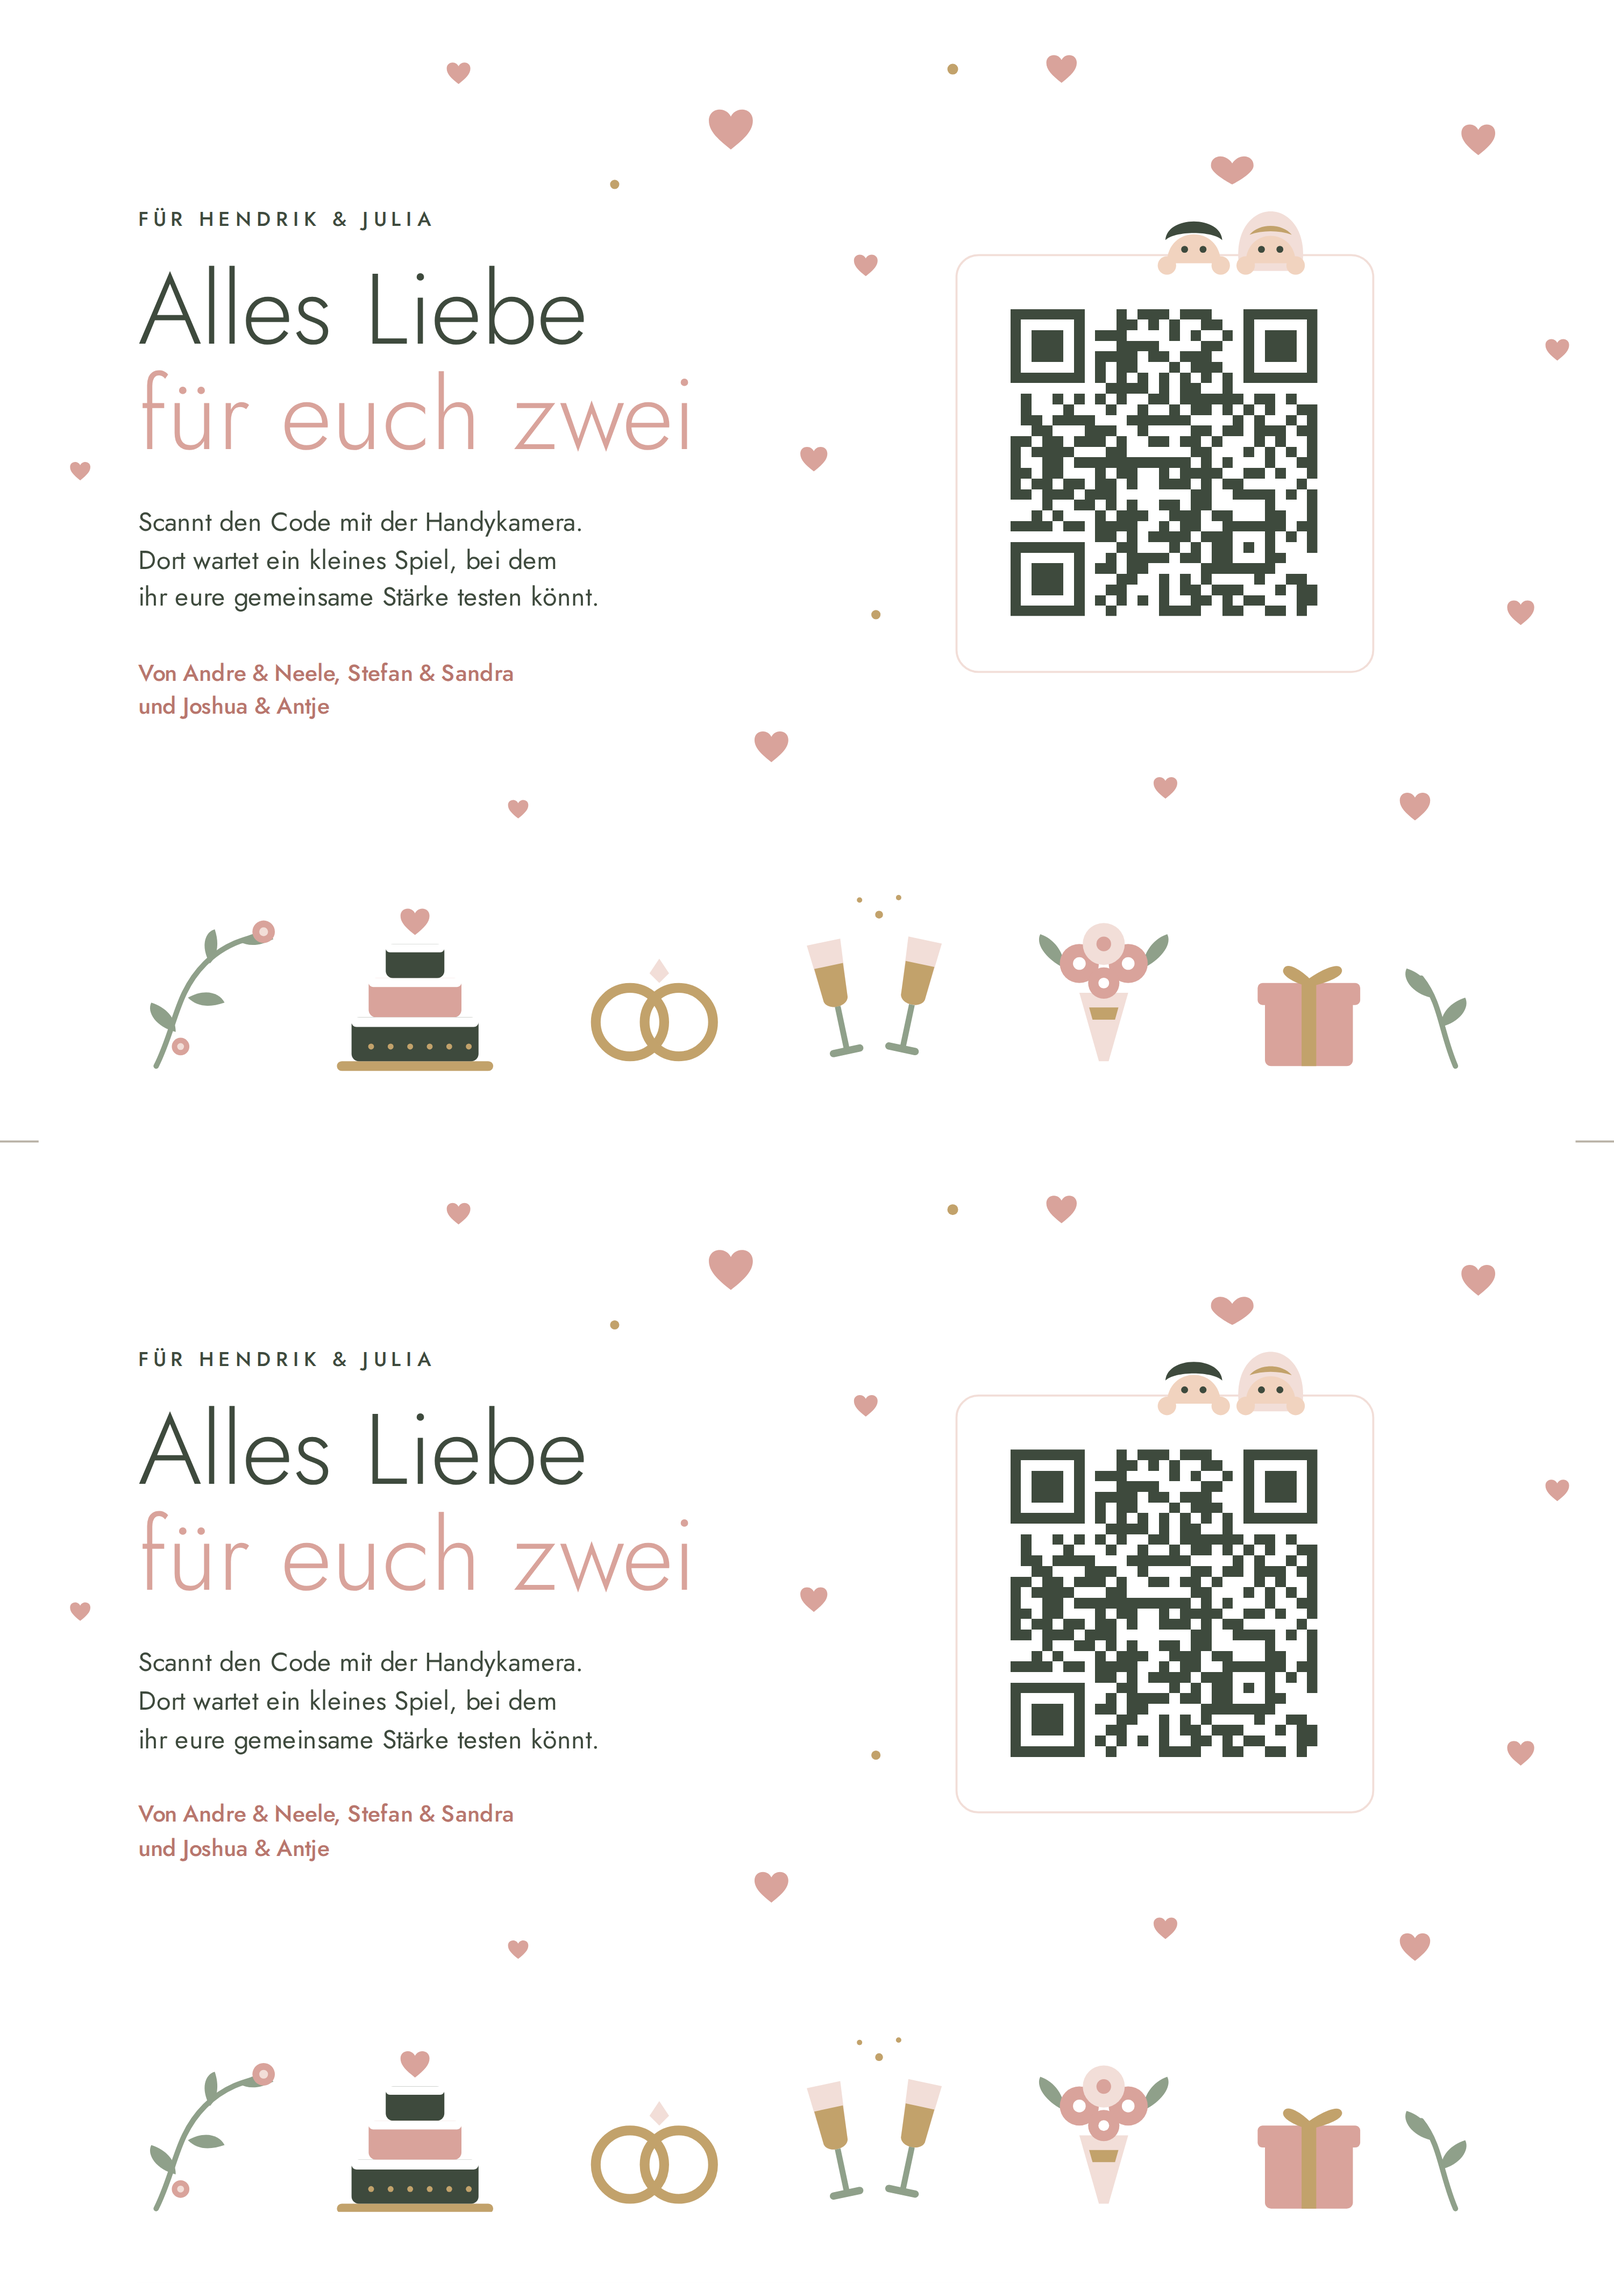
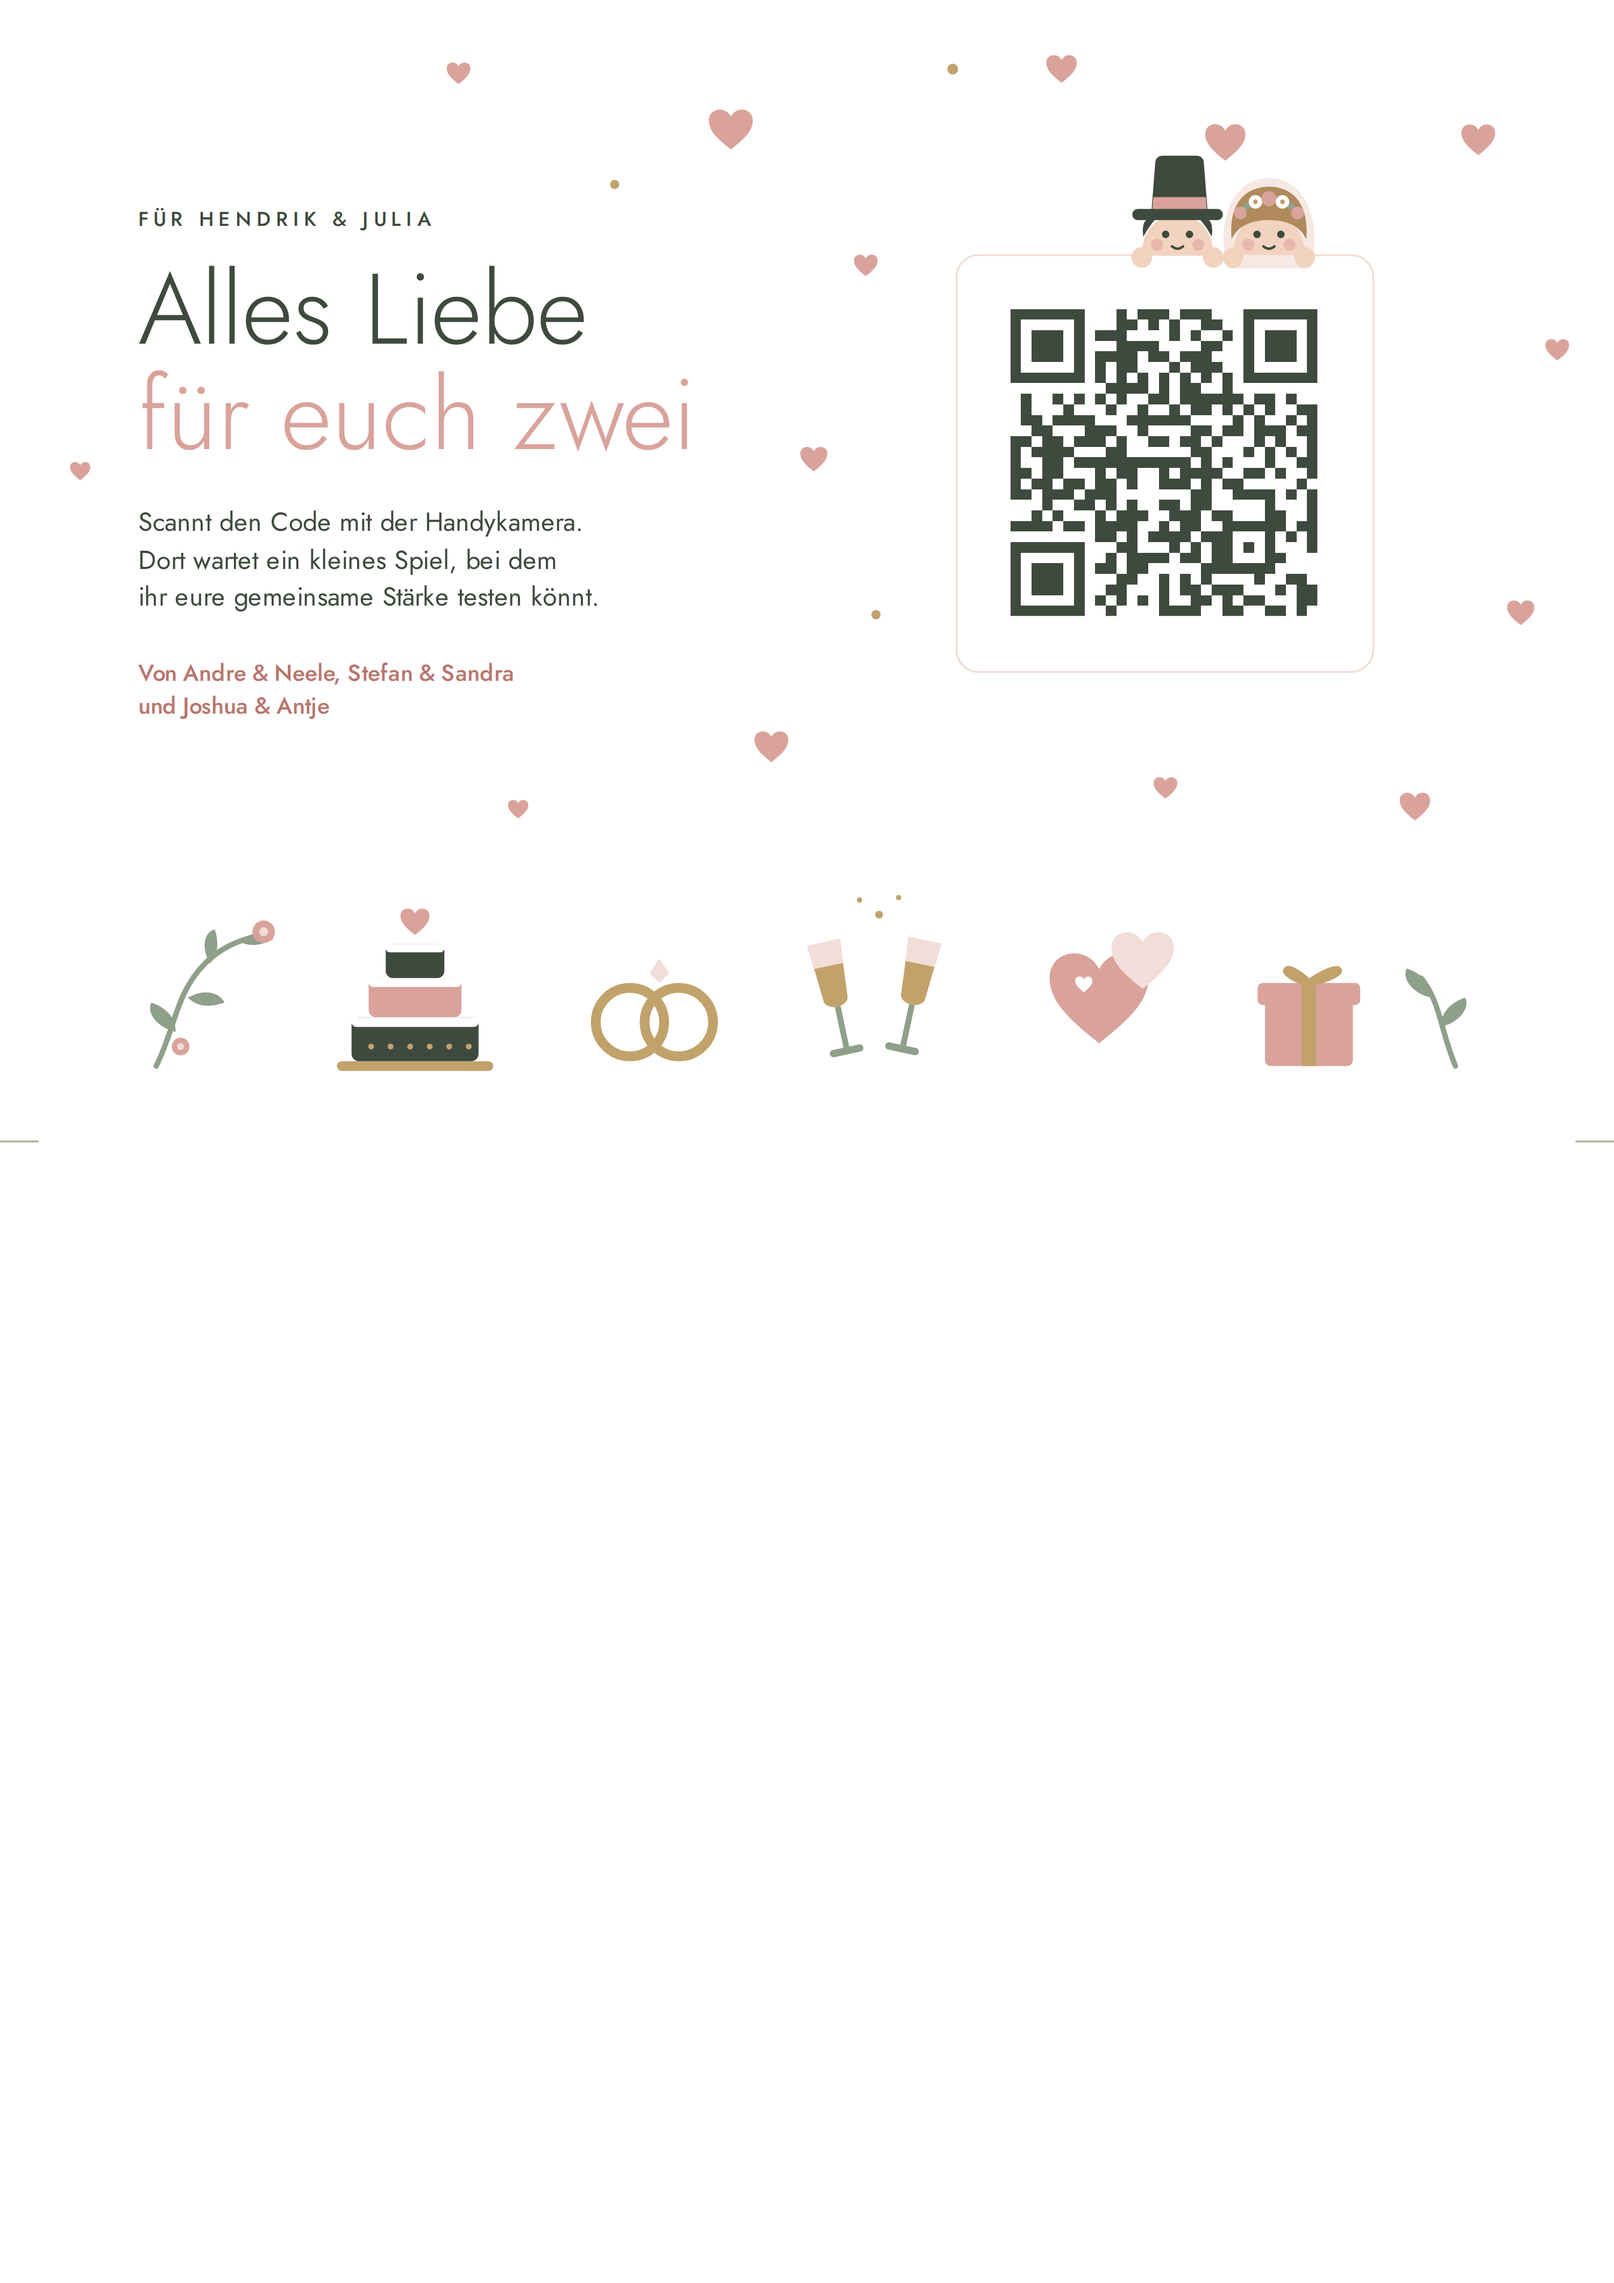
karten hochzeit optimiert

diff --git a/design/hochzeit/karten-vorlage.html b/design/hochzeit/karten-vorlage.html
@@ -2,7 +2,7 @@
 <html lang="de">
 <head>
   <meta charset="utf-8">
-  <title>Hochzeit – Karten (A4, 2 × A5 quer)</title>
+  <title>Hochzeit – Karte (A5 quer, oben auf A4)</title>
   <style>
     @font-face {
       font-family: "Jost";
@@ -95,10 +95,10 @@
 
     .paar {
       position: absolute;
-      right: 5mm;
-      top: -15.1mm;
-      width: 26mm;
-      height: 17.7mm;
+      right: 4mm;
+      top: -17.6mm;
+      width: 30mm;
+      height: 19.35mm;
     }
 
     .qr { width: 40mm; height: 40mm; }
@@ -158,26 +158,40 @@
       <div class="qr-feld">
         <div class="qr-schild">
           <!-- Brautpaar guckt hinter dem Schild hervor -->
-          <svg class="paar" viewBox="0 0 52 35.4" aria-hidden="true">
-            <path fill="#d9a39b" d="M26 6 C24 3 20 4 20.5 7 C21 9 26 11.5 26 11.5 C26 11.5 31 9 31.5 7 C32 4 28 3 26 6 Z"/>
-            <!-- Bräutigam -->
-            <path fill="#f1d3bf" d="M9 32 C9 22 23 22 23 32 Z"/>
-            <path fill="#3e4a3d" d="M8.6 26 C9 19.5 23 19.5 23.4 26 C21 23.5 11 23.5 8.6 26 Z"/>
-            <circle cx="13.6" cy="28.4" r="0.9" fill="#3e4a3d"/><circle cx="18.4" cy="28.4" r="0.9" fill="#3e4a3d"/>
-            <!-- Braut mit Schleier -->
-            <path fill="#f2ded8" d="M28 34 C26 24 31 18.5 36 18.5 C41 18.5 46 24 44 34 Z"/>
-            <path fill="#f1d3bf" d="M29.5 32 C29.5 22.5 42.5 22.5 42.5 32 Z"/>
-            <path fill="#c2a26b" d="M30.5 24.6 C33 21.5 39 21.5 41.5 24.6 C38 23.4 34 23.4 30.5 24.6 Z"/>
-            <circle cx="33.6" cy="28.4" r="0.9" fill="#3e4a3d"/><circle cx="38.4" cy="28.4" r="0.9" fill="#3e4a3d"/>
+          <svg class="paar" viewBox="0 0 58 37.4" aria-hidden="true">
+            <!-- Herz über den beiden -->
+            <path fill="#d9a39b" transform="translate(23.5 0.6) scale(0.23)" d="M24 42 C10 31 2 23 2 13 C2 6 7 2 13 2 C18 2 22 5 24 9 C26 5 30 2 35 2 C41 2 46 6 46 13 C46 23 38 31 24 42 Z"/>
+            <!-- Bräutigam mit Zylinder, rosige Wangen, Lächeln -->
+            <path fill="#f1d3bf" d="M8 34 C8 20.5 26 20.5 26 34 Z"/>
+            <!-- Koteletten unter dem Hut -->
+            <path fill="#3e4a3d" d="M8.4 29.4 C8 26.6 8.6 25 9.8 25 L11.4 25 C10.2 26.4 9.2 27.8 8.4 29.4 Z M25.6 29.4 C26 26.6 25.4 25 24.2 25 L22.6 25 C23.8 26.4 24.8 27.8 25.6 29.4 Z"/>
+            <!-- Zylinder mit Hutband -->
+            <path fill="#3e4a3d" d="M10.4 23.4 L11.4 10.6 C11.5 9.6 12.3 9 13.3 9 L21.7 9 C22.7 9 23.5 9.6 23.6 10.6 L24.6 23.4 Z"/>
+            <path fill="#d9a39b" d="M10.9 19.4 L24.1 19.4 L24.35 22.6 L10.65 22.6 Z"/>
+            <rect x="5.6" y="22.4" width="22.8" height="2.8" rx="1.4" fill="#3e4a3d"/>
+            <circle cx="14" cy="28.8" r="0.95" fill="#3e4a3d"/><circle cx="20" cy="28.8" r="0.95" fill="#3e4a3d"/>
+            <circle cx="11.8" cy="31.4" r="1.5" fill="#e8b7ad"/><circle cx="22.2" cy="31.4" r="1.5" fill="#e8b7ad"/>
+            <path fill="none" stroke="#3e4a3d" stroke-width="0.6" stroke-linecap="round" d="M15.6 31.8 Q17 33 18.4 31.8"/>
+            <!-- Braut: fließender Schleier, Haar, Blütenkranz -->
+            <path fill="#f6e8e3" d="M29.6 37.4 C26.4 26 30.6 14.6 40 14.6 C49.4 14.6 53.6 26 50.4 37.4 Z"/>
+            <path fill="#f1d3bf" d="M31 34 C31 20.5 49 20.5 49 34 Z"/>
+            <path fill="#b08a5c" d="M30.6 30 C29.8 20.4 34.6 16.8 40 16.8 C45.4 16.8 50.2 20.4 49.4 30 C47.8 26.6 44.4 25.2 40 25.2 C35.6 25.2 32.2 26.6 30.6 30 Z"/>
+            <g fill="#8fa08a"><ellipse cx="34.6" cy="21.6" rx="1.5" ry="0.8" transform="rotate(-30 34.6 21.6)"/><ellipse cx="45.4" cy="21.6" rx="1.5" ry="0.8" transform="rotate(30 45.4 21.6)"/></g>
+            <circle cx="32.8" cy="23.4" r="1.6" fill="#d9a39b"/><circle cx="36.6" cy="20.6" r="1.7" fill="#ffffff"/>
+            <circle cx="40" cy="19.8" r="1.9" fill="#d9a39b"/><circle cx="43.4" cy="20.6" r="1.7" fill="#ffffff"/>
+            <circle cx="47.2" cy="23.4" r="1.6" fill="#d9a39b"/>
+            <g fill="#c2a26b"><circle cx="36.6" cy="20.6" r="0.6"/><circle cx="43.4" cy="20.6" r="0.6"/></g>
+            <circle cx="37" cy="28.8" r="0.95" fill="#3e4a3d"/><circle cx="43" cy="28.8" r="0.95" fill="#3e4a3d"/>
+            <circle cx="34.8" cy="31.4" r="1.5" fill="#e8b7ad"/><circle cx="45.2" cy="31.4" r="1.5" fill="#e8b7ad"/>
+            <path fill="none" stroke="#3e4a3d" stroke-width="0.6" stroke-linecap="round" d="M38.6 31.8 Q40 33 41.4 31.8"/>
             <!-- Hände an der Kante -->
-            <circle cx="9" cy="32.6" r="2.4" fill="#f1d3bf"/><circle cx="23" cy="32.6" r="2.4" fill="#f1d3bf"/>
-            <circle cx="29.5" cy="32.6" r="2.4" fill="#f1d3bf"/><circle cx="42.5" cy="32.6" r="2.4" fill="#f1d3bf"/>
+            <g fill="#f1d3bf"><circle cx="8" cy="34.6" r="2.6"/><circle cx="26" cy="34.6" r="2.6"/><circle cx="31" cy="34.6" r="2.6"/><circle cx="49" cy="34.6" r="2.6"/></g>
           </svg>
           <div class="qr"><!--QR--></div>
         </div>
       </div>
 
-      <!-- Hochzeitsmotive: Blumenranke, Torte, Ringe, Sekt, Brautstrauß, Geschenk -->
+      <!-- Hochzeitsmotive: Blumenranke, Torte, Ringe, Sekt, Herzen, Geschenk -->
       <svg class="motive" viewBox="0 0 560 76" preserveAspectRatio="xMidYMax meet" aria-hidden="true">
         <!-- Blumenranke links -->
         <path fill="none" stroke="#8fa08a" stroke-width="2.2" stroke-linecap="round" d="M14 74 C22 58 22 44 34 32 C42 24 50 22 58 20"/>
@@ -218,15 +232,10 @@
         </g>
         <g fill="#c2a26b"><circle cx="310" cy="12" r="1.6"/><circle cx="302" cy="6" r="1.1"/><circle cx="318" cy="5" r="1.1"/></g>
 
-        <!-- Brautstrauß -->
-        <path fill="#8fa08a" d="M386 34 C378 30 374 24 376 20 C382 22 386 28 386 34 Z M418 34 C426 30 430 24 428 20 C422 22 418 28 418 34 Z"/>
-        <path fill="#f2ded8" d="M392 44 L412 44 L404 72 L400 72 Z"/>
-        <path fill="#c2a26b" d="M396 50 L408 50 L406.6 55 L397.4 55 Z"/>
-        <g fill="#d9a39b"><circle cx="392" cy="32" r="8"/><circle cx="412" cy="32" r="8"/></g>
-        <circle cx="402" cy="24" r="8.6" fill="#f2ded8"/>
-        <g fill="#ffffff"><circle cx="392" cy="32" r="2.6"/><circle cx="412" cy="32" r="2.6"/></g>
-        <circle cx="402" cy="24" r="3" fill="#d9a39b"/>
-        <circle cx="402" cy="40" r="6.4" fill="#d9a39b"/><circle cx="402" cy="40" r="2.2" fill="#ffffff"/>
+        <!-- zwei Herzen -->
+        <path fill="#d9a39b" transform="translate(378 26) scale(0.92)" d="M24 42 C10 31 2 23 2 13 C2 6 7 2 13 2 C18 2 22 5 24 9 C26 5 30 2 35 2 C41 2 46 6 46 13 C46 23 38 31 24 42 Z"/>
+        <path fill="#f2ded8" transform="translate(404 18) scale(0.58)" d="M24 42 C10 31 2 23 2 13 C2 6 7 2 13 2 C18 2 22 5 24 9 C26 5 30 2 35 2 C41 2 46 6 46 13 C46 23 38 31 24 42 Z"/>
+        <path fill="#ffffff" transform="translate(390 37) scale(0.16)" d="M24 42 C10 31 2 23 2 13 C2 6 7 2 13 2 C18 2 22 5 24 9 C26 5 30 2 35 2 C41 2 46 6 46 13 C46 23 38 31 24 42 Z"/>
 
         <!-- Geschenk -->
         <rect x="468" y="46" width="36" height="28" rx="2.5" fill="#d9a39b"/>
@@ -245,7 +254,7 @@
     const qr = await (await fetch('qr-h-und-j.svg')).text();
     const vorlage = document.getElementById('karte');
     const blatt = document.querySelector('.blatt');
-    for (let i = 0; i < 2; i++) {
+    for (let i = 0; i < 1; i++) { // eine Karte oben auf dem Blatt
       const karte = vorlage.content.cloneNode(true);
       karte.querySelector('.qr').innerHTML = qr;
       blatt.append(karte);

diff --git a/design/hochzeit/DESIGN.md b/design/hochzeit/DESIGN.md
@@ -49,12 +49,12 @@ sanft herunter. „Bewegung reduzieren“ am Gerät wird beachtet (keine fallend
 
 ## Karte mit QR-Code
 
-- **Format:** DIN A5 quer (210 × 148,5 mm), 2 Karten auf einem DIN-A4-Blatt hochkant,
-  ein Schnitt in der Mitte, Schnittmarken an den Rändern. Weißes Papier oder Karton (ca. 250 g/m²).
+- **Format:** DIN A5 quer (210 × 148,5 mm), eine Karte oben auf einem DIN-A4-Blatt hochkant,
+  ein Schnitt in der Mitte (Schnittmarken an den Rändern), die untere Hälfte bleibt leer. Weißes Papier oder Karton (ca. 250 g/m²).
 - **Aufbau:** links „FÜR HENDRIK & JULIA“, „Alles Liebe / für euch zwei“, Anleitung (macht
   neugierig auf das Spiel) und Absender (alle drei Paare), ohne ausgeschriebene Adresse; rechts der QR-Code auf einem weißen Schild mit rosé Rand,
-  hinter dem das Brautpaar hervorguckt; unten eine Reihe Motive (Blumenranke, Torte, Ringe,
-  Sektgläser, Brautstrauß, Geschenk); locker verteilte kleine Herzen.
+  hinter dem das Brautpaar hervorguckt (Bräutigam mit Zylinder, Braut mit Schleier und Blütenkranz, rosige Wangen, kleines Lächeln); unten eine Reihe Motive (Blumenranke, Torte, Ringe,
+  Sektgläser, zwei Herzen, Geschenk); locker verteilte kleine Herzen.
 - **QR-Code:** Tinte auf Weiß, 40 mm, 7 mm Freiraum im Schild, Fehlerkorrektur Q,
   Ziel `https://kuhklasse.de/h-und-j/`.
 - **Dateien:** `design/hochzeit/karten-vorlage.html` (Vorlage), `karten-entwurf.png` (Druckbild).
